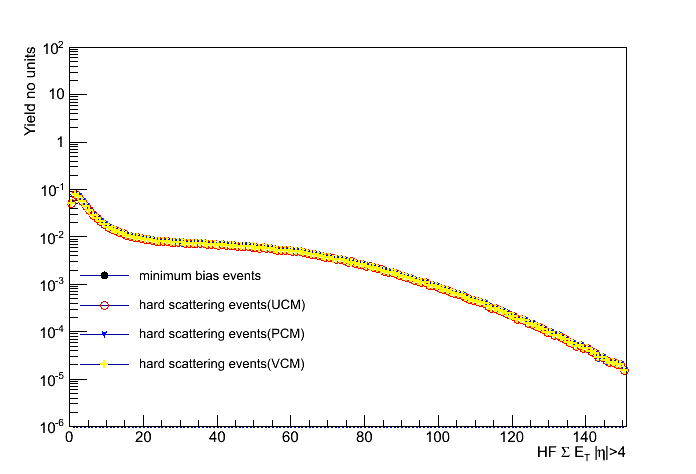
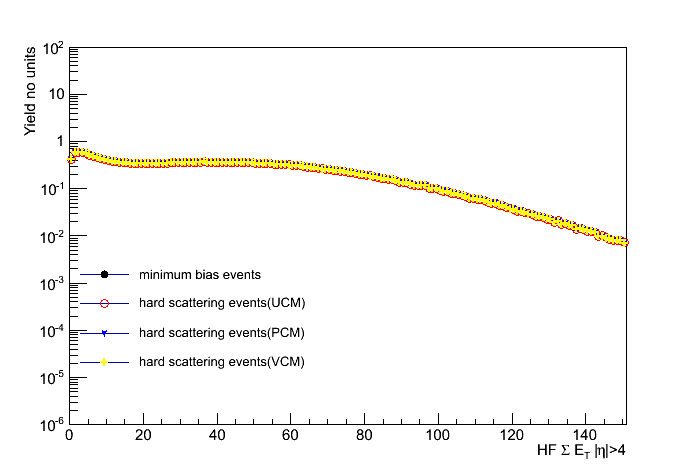
centrality bias figures

diff --git a/centrality/Bias/Draw3modelYvsET.C b/centrality/Bias/Draw3modelYvsET.C
@@ -1,6 +1,7 @@
 #include "parameter.h"
 #include "par.h"
 void Draw3modelYvsET(){
+	gStyle->SetOptStat(kFALSE);	
 	int sth=0, Gth=0;
         TFile *f = TFile::Open(outG);
         if(sth==0){TString dirname = "std";}
@@ -24,8 +25,8 @@ void Draw3modelYvsET(){
         TVectorD* kbest = (TVectorD*)f->Get(Form("%s/%s/kbest",dirname.Data(),name.Data()));
 	
 	TFile *fGlauber = TFile::Open(Glaubername->GetName());
-	(*k0)[0]=1.39;	(*kbest)[0]=0.425;
-	(*theta0)[0]=3.41;	(*thetabest)[0]=1.30;
+	//(*k0)[0]=1.39;	(*kbest)[0]=0.425;
+	//(*theta0)[0]=3.41;	(*thetabest)[0]=1.30;
 	int xNcoll = 5;
 	int xNpart = xNcoll + 1; 
         double k=(*k0)[0]+(*kbest)[0]*(xNpart-2);
@@ -80,7 +81,7 @@ void Draw3modelYvsET(){
         Nevent = (Long_t) t->GetEntries();
         Long_t Ev;      Int_t Bino;     Double_t Para_nucl, Para_p, Para_evt, Bi_Para_nucl, Bi_Para_evt;
         for (Ev=0; Ev<1e7; Ev++){
- //       	if(Ev%100000==0)       cout<<"\t"<<"Have run "<<Ev<<" events"<<endl;
+     	  	if(Ev%1000000==0)       cout<<"\t"<<"Have run "<<Ev<<" events"<<endl;
  //       	t->GetEntry(Ev);
 //		if(Npart!=xNpart) continue;
 		//Para_nucl = 0; //make sure that Para doesn't accuthetalate through loops
@@ -100,12 +101,38 @@ void Draw3modelYvsET(){
 	}
 	TCanvas *c2 = new TCanvas();
 	c2->SetLogz();
-	UCM->GetYaxis()->SetRangeUser(0,16.5);
-	UCM->GetXaxis()->SetRangeUser(0,75);
-	UCM->Draw("C");
-	PCM->Draw("colzsame");
-	VCM->Draw("same");
+	PCM->GetYaxis()->SetRangeUser(0,16.5);
+	PCM->GetYaxis()->SetTitle("Y/C");
+	PCM->GetXaxis()->SetRangeUser(0,75);
+	UCM->SetLineWidth(2);
+	PCM->GetXaxis()->SetTitle("HF #Sigma E_{T}^{j}");
+	PCM->SetTitle("");
+	UCM->SetLineStyle(4);
+	UCM->SetLineWidth(1.5);
+	PCM->Draw("colz");
+	UCM->Draw("Csame");
+	VCM->SetLineStyle(2);
+	VCM->SetLineWidth(1.5);
+	VCM->Draw("Csame");
 
-	c1->Print("gammafundist.png");
-	c2->Print("paperfig2.png");
+        TLegend *leg = new TLegend(0.56, 0.15, 0.8, 0.35);
+        leg->SetFillColor(10);
+        leg->SetFillStyle(0);
+        leg->SetBorderSize(0.035);
+        leg->SetTextFont(42);
+        leg->SetTextSize(0.04);
+        leg->AddEntry(UCM,"Uncorrelated Model","lp");
+        leg->AddEntry(PCM,"Part. Corr. Model","lp");
+        leg->AddEntry(VCM,"Var. Corr. Model","lp");
+        leg->Draw("same");
+        TLatex *tex= new TLatex(0.7,0.45,Form("Ncoll = %d",xNcoll));
+        tex->SetNDC();
+        tex->SetTextColor(1);
+        tex->SetTextSize(0.045);
+        tex->SetTextFont(42);
+        tex->Draw("same");
+
+
+	c1->Print("gammafundist_CMS.png");
+	c2->Print("paperfig2_CMS.png");
 }

diff --git a/centrality/Bias/hPYphocalc.C b/centrality/Bias/hPYphocalc.C
@@ -109,9 +109,13 @@ void hPYphocalc(){
 		yUCM[ibin] += PNcoll[(int)Ncoll]*PNcollET*YNcollUCM;
 		yPCM[ibin] += PNcoll[(int)Ncoll]*PNcollET*YNcollPCM;
 		yVCM[ibin] += PNcoll[(int)Ncoll]*PNcollET*YNcollVCM;
-		yUCM_[(int)Para] += PNcoll[(int)Ncoll]*PNcollET*YNcollUCM;
-		yPCM_[(int)Para] += PNcoll[(int)Ncoll]*PNcollET*YNcollPCM;
-		yVCM_[(int)Para] += PNcoll[(int)Ncoll]*PNcollET*YNcollVCM;
+//		yUCM_[(int)Para] += PNcoll[(int)Ncoll]*PNcollET*YNcollUCM;
+//		yPCM_[(int)Para] += PNcoll[(int)Ncoll]*PNcollET*YNcollPCM;
+//		yVCM_[(int)Para] += PNcoll[(int)Ncoll]*PNcollET*YNcollVCM;
+                yUCM_[(int)Para] += PNcoll[(int)Ncoll]*YNcollUCM;
+                yPCM_[(int)Para] += PNcoll[(int)Ncoll]*YNcollPCM;
+                yVCM_[(int)Para] += PNcoll[(int)Ncoll]*YNcollVCM;
+
 		NcollvsET->Fill(Ncoll,Para);
 	}
 	for(int ibin=1;ibin<hUCM->GetNbinsX();ibin++){
